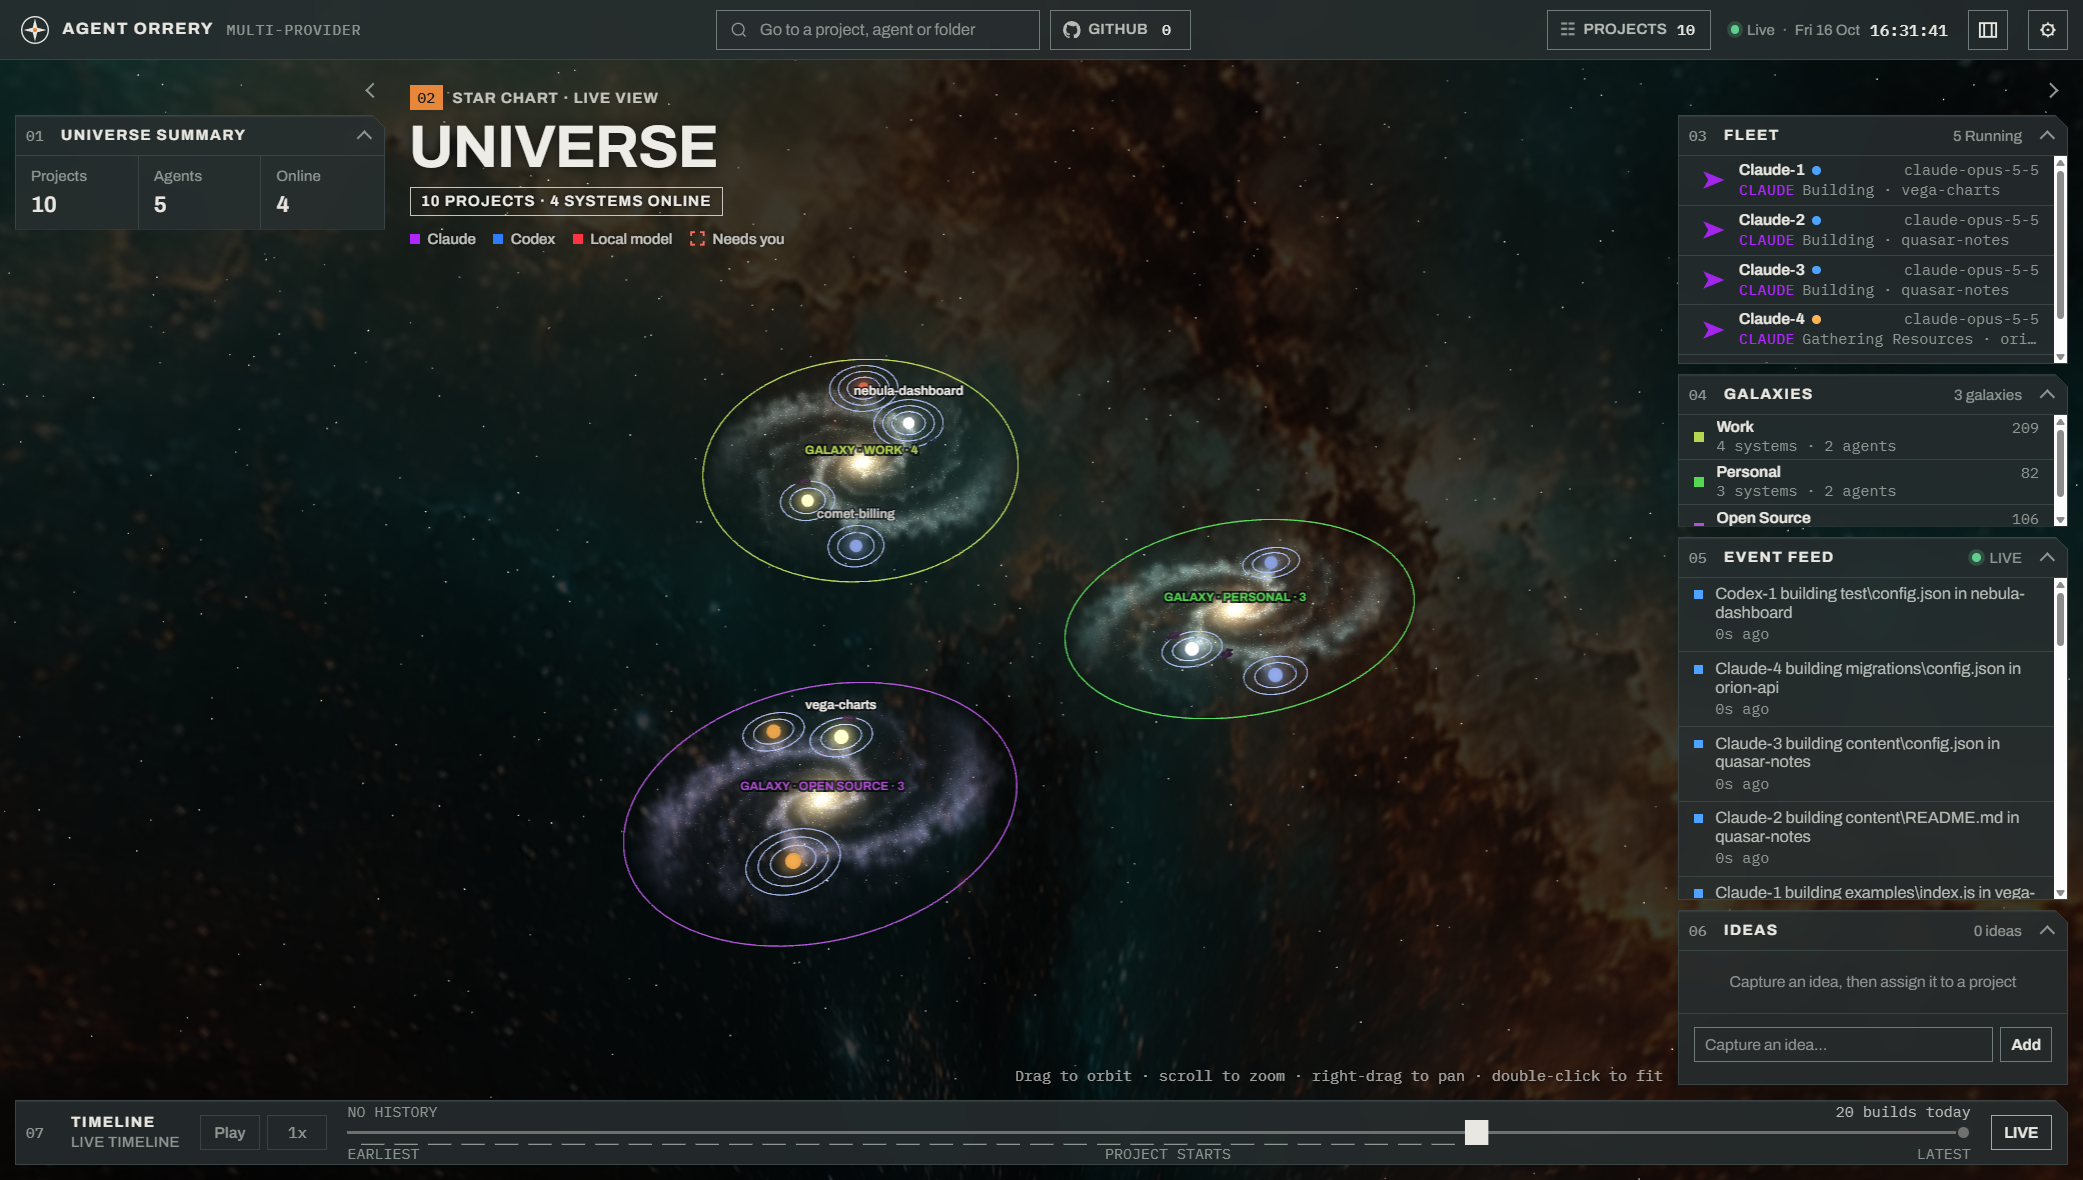
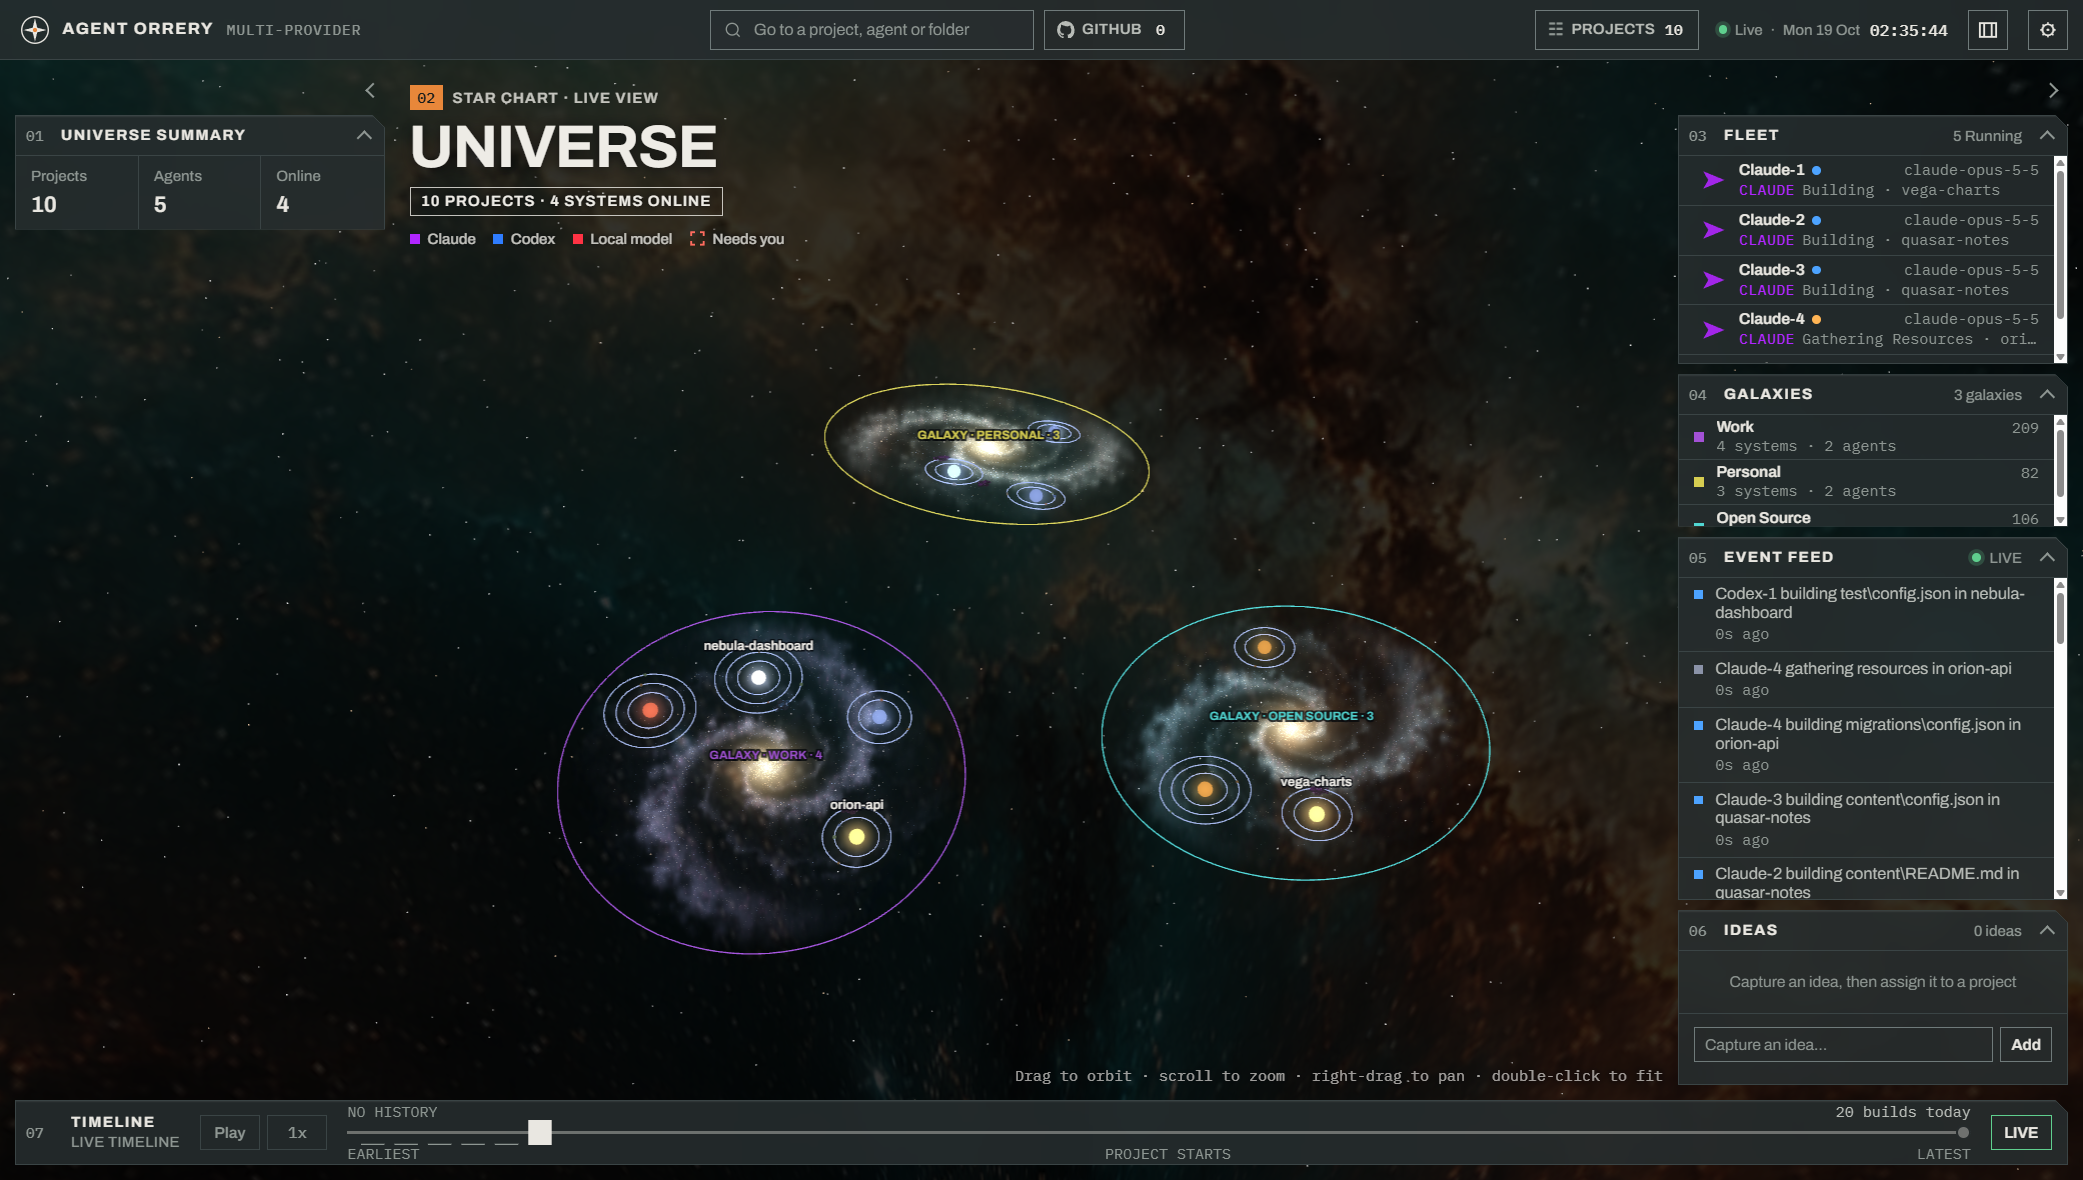
Universe: dim the backdrop so polish P2 passes, scatter galaxy systems off the arms (#59)
* fix: dim the universe sky so polish P2 passes again

The universe nebula sky level drops from 0.04 to 0.028. #49's spiral galaxies pushed the polish fixture's backdrop luma to median 25 / p90 51.1, over the P2 budget of 24 / 48. The median comes from the nebula, so the sky level is the lever; galaxy exposure barely moves either number. At 0.028 the polish fixture measures 21.4 / 45.5 on every run, and the real profile 20.2 / 42.2. The galaxies look the same; the nebula is a little quieter, closer to the near-black mockup. SPEC §5 states the new level.

* refactor: drop the universe view's unread skyLevel field; SPEC §5 states the dome size the view passes (1600)

* feat: scatter a galaxy's systems through its disc instead of lining its arms

Systems sat exactly on the spiral arms a fixed step apart, with a 1.5-unit nudge and a thin lift, so a galaxy read as rows of beads in one plane. Each system now takes a seeded bearing anywhere in the disc and a distance from the core set loosely by recency: the most recent lean inward, but neighbours in the ranking mix. It takes the first of its seeded spots clear of the systems placed before it (18 units for the first half of its 24 tries, then 14, else the clearest). The lift is the old bulge profile, flatter, and grows with the square root of the galaxy's radius, so wide galaxies gain depth while a lone system keeps its height at the centre.
[…]

diff --git a/src/renderer/galaxy-layout.js b/src/renderer/galaxy-layout.js
@@ -1,6 +1,6 @@
 // Pure deterministic galaxy colors and cluster packing.
 // Galaxies huddle around the largest one at hashed bearings, heights and tilts; inside a galaxy
-// the recently active projects sit at the core and dormant ones drift to the rim.
+// the recently active projects lean toward the core and dormant ones toward the rim.
 // UMD keeps the same implementation available to the renderer and Node gates.
 'use strict';
 
@@ -10,9 +10,12 @@
   if (root) root.AUR_GALAXY = api;
 })(typeof window !== 'undefined' ? window : globalThis, function () {
   const MEMBER_STEP = 16;
-  const MEMBER_JITTER = 1.5;
-  const MEMBER_LIFT = 1.5;
-  const CORE_LIFT = 3;
+  const MEMBER_ROOMY = 18;
+  const MEMBER_SPACING = 14;
+  const MEMBER_SCATTER = 0.35;
+  const MEMBER_TRIES = 24;
+  const MEMBER_LIFT = 3;
+  const CORE_LIFT = 1.5;
   const CORE_RADIUS = 10;
   const CORE_BULGE = 0.28;
   const ARM_TWIST = 3;
@@ -83,14 +86,9 @@
     return { key, label };
   }
 
-  // Angle of a point on an arm at a given radius.
-  function armAngle(spiral, arm, radius) {
-    return spiral.phase + arm * Math.PI * 2 / spiral.arms + (radius / spiral.radius) * ARM_TWIST;
-  }
-
-  // The radii of a galaxy's systems along one arm, each a MEMBER_STEP chord from the last.
+  // The radii of MEMBER_STEP chords out along one arm, which size the disc.
   function armRadii(spiral) {
-    const point = (r) => { const a = armAngle(spiral, 0, r); return [Math.cos(a) * r, Math.sin(a) * r]; };
+    const point = (r) => { const a = spiral.phase + (r / spiral.radius) * ARM_TWIST; return [Math.cos(a) * r, Math.sin(a) * r]; };
     const radii = [CORE_RADIUS + MEMBER_STEP * 0.35];
     while (radii.length < spiral.perArm) {
       const prev = radii[radii.length - 1];
@@ -107,11 +105,10 @@
     return radii;
   }
 
-  // The spiral a galaxy's systems sit on: a few arms twisting out from a core, the systems a
-  // step apart along them, wound loosely enough that neighbouring arms stay a system apart (the
-  // galaxy's light winds tighter on its own; see galaxy-field.js). The twist is per radius and
-  // the radius follows the last system, so the two settle together. A lone system sits at the
-  // centre.
+  // A galaxy's spiral and size: a few arms twisting out from a core, the disc as wide as its
+  // systems would reach a step apart along them (the systems scatter through that disc instead;
+  // the galaxy's light winds on its own, see galaxy-field.js). The twist is per radius and the
+  // radius follows the last step, so the two settle together.
   function spiralFor(key, count) {
     const arms = count < 8 ? 2 : count < 24 ? 3 : 4;
     const spiral = { arms, perArm: Math.ceil(count / arms), phase: hashAngle(key), radii: [0], radius: MIN_RADIUS };
@@ -127,24 +124,42 @@
     return spiral;
   }
 
-  // How thick the disc is at a radius: a bulge at the core, thin at the rim.
+  // How thick the disc is at a radius: a bulge at the core, thinner at the rim, and thicker the
+  // wider the galaxy.
   function discThickness(spiral, radius) {
-    return MEMBER_LIFT + CORE_LIFT * Math.exp(-((radius / (spiral.radius * CORE_BULGE)) ** 2));
+    const bulge = Math.exp(-((radius / (spiral.radius * CORE_BULGE)) ** 2));
+    return (MEMBER_LIFT + CORE_LIFT * bulge) * Math.sqrt(spiral.radius / MIN_RADIUS);
   }
 
-  // Core to rim by recency along the arms: the most recent system sits nearest the core, the
-  // next on the next arm, and so on outward, each nudged off its arm by its own jitter (a
-  // distance, so it stays small at any radius).
+  // Scattered through the disc, core to rim loosely by recency: the most recent systems lean
+  // toward the core but neighbours in the ranking mix freely. Each system tries spots drawn from
+  // its own seed and takes the first one clear of the systems placed before it: a roomy spacing
+  // for the first half of its tries, the minimum after that, or else the clearest spot. A lone
+  // system sits at the centre.
   function memberLayout(group) {
-    const spiral = spiralFor(group.key, group.members.length);
+    const count = group.members.length;
+    const spiral = spiralFor(group.key, count);
+    const inner = spiral.radii[0];
+    const outer = count === 1 ? inner : spiral.radius - MEMBER_MARGIN;
     group.members.sort((a, b) => (b.lastActivity - a.lastActivity) || a.id.localeCompare(b.id));
     group.members.forEach((project, index) => {
-      const [radial, angular, lift] = seedJitter(project.seed);
-      const radius = spiral.radii[Math.floor(index / spiral.arms)] + radial * MEMBER_JITTER;
-      const angle = armAngle(spiral, index % spiral.arms, radius) + angular * MEMBER_JITTER / radius;
-      project.localX = Math.cos(angle) * radius;
-      project.localY = lift * discThickness(spiral, radius);
-      project.localZ = Math.sin(angle) * radius;
+      let best = null;
+      for (let attempt = 0; attempt < MEMBER_TRIES; attempt++) {
+        const [radial, angular, lift] = seedJitter((project.seed ^ Math.imul(attempt, 0x9e3779b9)) >>> 0);
+        const share = Math.min(1, Math.max(0, (index + 0.5) / count + radial * MEMBER_SCATTER));
+        const radius = inner + (outer - inner) * Math.sqrt(share);
+        const x = Math.cos(angular * Math.PI) * radius;
+        const z = Math.sin(angular * Math.PI) * radius;
+        let clearance = Infinity;
+        for (const other of group.members.slice(0, index)) {
+          clearance = Math.min(clearance, Math.hypot(x - other.localX, z - other.localZ));
+        }
+        if (!best || clearance > best.clearance) best = { x, z, radius, lift, clearance };
+        if (clearance >= (attempt < MEMBER_TRIES / 2 ? MEMBER_ROOMY : MEMBER_SPACING)) break;
+      }
+      project.localX = best.x;
+      project.localY = best.lift * discThickness(spiral, best.radius);
+      project.localZ = best.z;
     });
     group.spiral = spiral;
     group.radius = spiral.radius;
@@ -280,5 +295,5 @@
     };
   }
 
-  return { layoutGalaxyProjects, galaxyColor, projectGalaxy, armAngle };
+  return { layoutGalaxyProjects, galaxyColor, projectGalaxy };
 });

diff --git a/test/galaxy-layout.test.js b/test/galaxy-layout.test.js
@@ -1,0 +1,53 @@
+'use strict';
+
+// galaxy-layout.js scatters a galaxy's systems through its disc: a seeded spot each, clear of the
+// others, loosely core to rim by recency, never lined up along the arms.
+const test = require('node:test');
+const assert = require('node:assert/strict');
+const GALAXY = require('../src/renderer/galaxy-layout.js');
+
+// n projects in one galaxy, proj-0 the most recently active.
+const galaxyOf = (n) => Array.from({ length: n }, (_, i) => ({
+  id: 'proj-' + i, seed: Math.imul(i + 7, 2654435761) >>> 0, lastActivity: n - i,
+  galaxy: { key: 'workspace:g' + n, label: 'G' + n },
+}));
+const radiusOf = (p) => Math.hypot(p.localX, p.localZ);
+const byRecency = (projects) => projects.slice().sort((a, b) => Number(a.id.slice(5)) - Number(b.id.slice(5)));
+
+test('a lone system sits at the centre', () => {
+  const [project] = GALAXY.layoutGalaxyProjects(galaxyOf(1)).projects;
+  assert.equal(radiusOf(project), 0);
+});
+
+test('systems scatter through the disc, a spacing apart and inside the rim', () => {
+  for (const n of [2, 8, 24, 60]) {
+    const projects = galaxyOf(n);
+    const layout = GALAXY.layoutGalaxyProjects(projects);
+    assert.deepEqual(GALAXY.layoutGalaxyProjects(projects.slice().reverse()), layout);
+    const [galaxy] = layout.galaxies;
+    for (const [i, a] of layout.projects.entries()) {
+      assert.ok(radiusOf(a) <= galaxy.radius - 10 + 1e-9, `${n}: ${a.id} reaches the rim`);
+      for (const b of layout.projects.slice(i + 1)) {
+        const gap = Math.hypot(a.localX - b.localX, a.localZ - b.localZ);
+        assert.ok(gap >= 14, `${n}: ${a.id} and ${b.id} are ${gap.toFixed(1)} apart`);
+      }
+    }
+  }
+});
+
+test('recent systems lean toward the core without lining the arms', () => {
+  const layout = GALAXY.layoutGalaxyProjects(galaxyOf(60));
+  const ranked = byRecency(layout.projects);
+  const mean = (list) => list.reduce((sum, p) => sum + radiusOf(p), 0) / list.length;
+  assert.ok(mean(ranked.slice(0, 30)) < mean(ranked.slice(30)) * 0.75);
+  // The galaxy's arms twist out from its phase (3 radians across its radius); a third of the
+  // systems sit more than a quarter of the way to the next arm.
+  const { arms, phase, radius } = layout.galaxies[0].spiral;
+  const between = 2 * Math.PI / arms;
+  const offArm = ranked.filter((p) => {
+    const offset = Math.atan2(p.localZ, p.localX) - phase - (radiusOf(p) / radius) * 3;
+    const fromArm = ((offset % between) + between) % between;
+    return Math.min(fromArm, between - fromArm) > between / 4;
+  });
+  assert.ok(offArm.length >= 20, `${offArm.length} of 60 systems off the arms`);
+});

diff --git a/src/renderer/scene/universe/view.js b/src/renderer/scene/universe/view.js
@@ -6,7 +6,7 @@
 (function () {
   const AUR = window.AUR;
   const GALAXY = window.AUR_GALAXY;
-  const UNIVERSE_SKY_LEVEL = 0.04;
+  const UNIVERSE_SKY_LEVEL = 0.028;
 
   AUR.views.universe = function (engine, data, ctx) {
     const store = ctx.store;
@@ -43,7 +43,7 @@
       engine, scene, canvas, camera, gui, store, glyphs, ships, galaxies, glow,
       fields: ctx.galaxyFields || new Map(),
       softDisc: AUR.softDiscTexture(scene), coronaMaterials: new Map(),
-      skyLevel: UNIVERSE_SKY_LEVEL, searchMatchIds: null, hoveredProjectId: null,
+      searchMatchIds: null, hoveredProjectId: null,
       quality: ctx.quality,
     };
     const parts = AUR.sceneParts.universe;

diff --git a/src/renderer/scene/universe/labels.js b/src/renderer/scene/universe/labels.js
@@ -8,7 +8,7 @@
   const POLISH = window.AUR_POLISH;
 
   AUR.sceneParts.universe.labels = function (view) {
-    const { scene, canvas, camera, glyphs, galaxies, skyLevel } = view;
+    const { scene, canvas, camera, glyphs, galaxies } = view;
     let labelLayoutDirty = true;
     let labelLayoutTimer = null;
     let lastLabelMetrics = null;
@@ -198,7 +198,6 @@
         overlaps: POLISH.countOverlaps(selected, 6),
         hoveredProjectId,
         cameraRadius: camera.radius,
-        skyLevel,
         finiteProjections,
         labels: [...glyphs.values()].map((g) => g.labelScreen),
         visibleGalaxyLabels: selectedGalaxies.length,

diff --git a/src/renderer/galaxy-field.js b/src/renderer/galaxy-field.js
@@ -2,7 +2,7 @@
 // The light of a galaxy as a field: an emission and dust atlas over its disc,
 // and the stars drawn from that atlas, in a fixed local frame (disc radius DISC) that the renderer
 // scales to the galaxy's radius. The arms wind logarithmically, as a spiral galaxy's do; the
-// galaxy's systems sit on their own, looser placement spiral (galaxy-layout.js). Pure and
+// galaxy's systems scatter through the disc on their own (galaxy-layout.js). Pure and
 // dependency-free; the Node tests load it directly.
 'use strict';
 

diff --git a/kit/SPEC.md b/kit/SPEC.md
@@ -274,7 +274,7 @@ Design tokens (put in `:root`):
 ## 5. Universe view (`3.universe-map-view.png`)
 
 - Backdrop: `assets/skyboxes/skybox-001.png` (2048×1024 equirectangular) via
-  `BABYLON.PhotoDome` (size ~1200), universe-only texture level `0.04`, plus a
+  `BABYLON.PhotoDome` (size 1600), universe-only texture level `0.028`, plus a
   ~2500-point starfield (PointsCloudSystem or small billboards). Keep it dark —
   the mockup is near-black. The galaxy gate measures it over the clear centre of
   the frame: median luma ≤ 24 and p90 ≤ 48 (of 255).
@@ -296,11 +296,15 @@ Design tokens (put in `:root`):
   galaxy, or ship state becomes dirty.
 - **Deterministic galaxy layout** (persistent universe — same every launch):
   group projects by their additive `galaxy.key`. A galaxy is a spiral: two to four
-  arms (by member count) twisting out from a core, and its systems sit on those arms
-  by recency, the most recently active nearest the core, each on the next arm outward,
-  with a per-project nudge off the arm and a lift that follows the disc's thickness
-  (a bulge at the core, thin at the rim). The same layout for the same activity
-  history; a project moves inward when it is worked on. The largest galaxy anchors the
+  arms (by member count) twisting out from a core, sized as if its systems sat a step
+  apart along them. The systems scatter through that disc instead of lining the arms:
+  core to rim loosely by recency (the most recently active lean toward the core, with
+  neighbours in the ranking mixing freely), each at the first of its own seeded spots
+  that clears the systems placed before it (a roomy spacing first, then a minimum,
+  else the clearest spot), and lifted within the
+  disc's thickness (a bulge at the core, thicker in wider galaxies). A lone system sits
+  at the centre. The same layout for the same activity history; a project drifts
+  inward when it is worked on. The largest galaxy anchors the
   cluster and each other one touches a placed galaxy at the free slot nearest the
   cluster's centre, with a positive gap; every galaxy is lifted and tilted on its own
   pivot, which everything of its rides: the glyphs (and so their ships, pulses and
@@ -309,8 +313,8 @@ Design tokens (put in `:root`):
   computes an emission/dust atlas over the disc (cloudy logarithmic arms from the
   galaxy's spiral phase, a warm core, star-forming knots, dust lanes inside the arms,
   the arms leaning toward the galaxy's colour) and draws the resolved stars from it; the
-  systems sit on their own, looser placement spiral, so the light winds as a galaxy's
-  does while neighbouring systems stay a step apart. The renderer gives each galaxy a
+  systems scatter through the disc on their own, so the light winds as a galaxy's does
+  while neighbouring systems stay a spacing apart. The renderer gives each galaxy a
   non-pickable volume box (the region mesh) that raymarches the atlas with a luminous
   bulge and dust extinction, and one point cloud of stars dimmed by the dust column in
   front of them; both are children of the pivot in the field's local frame scaled to the
